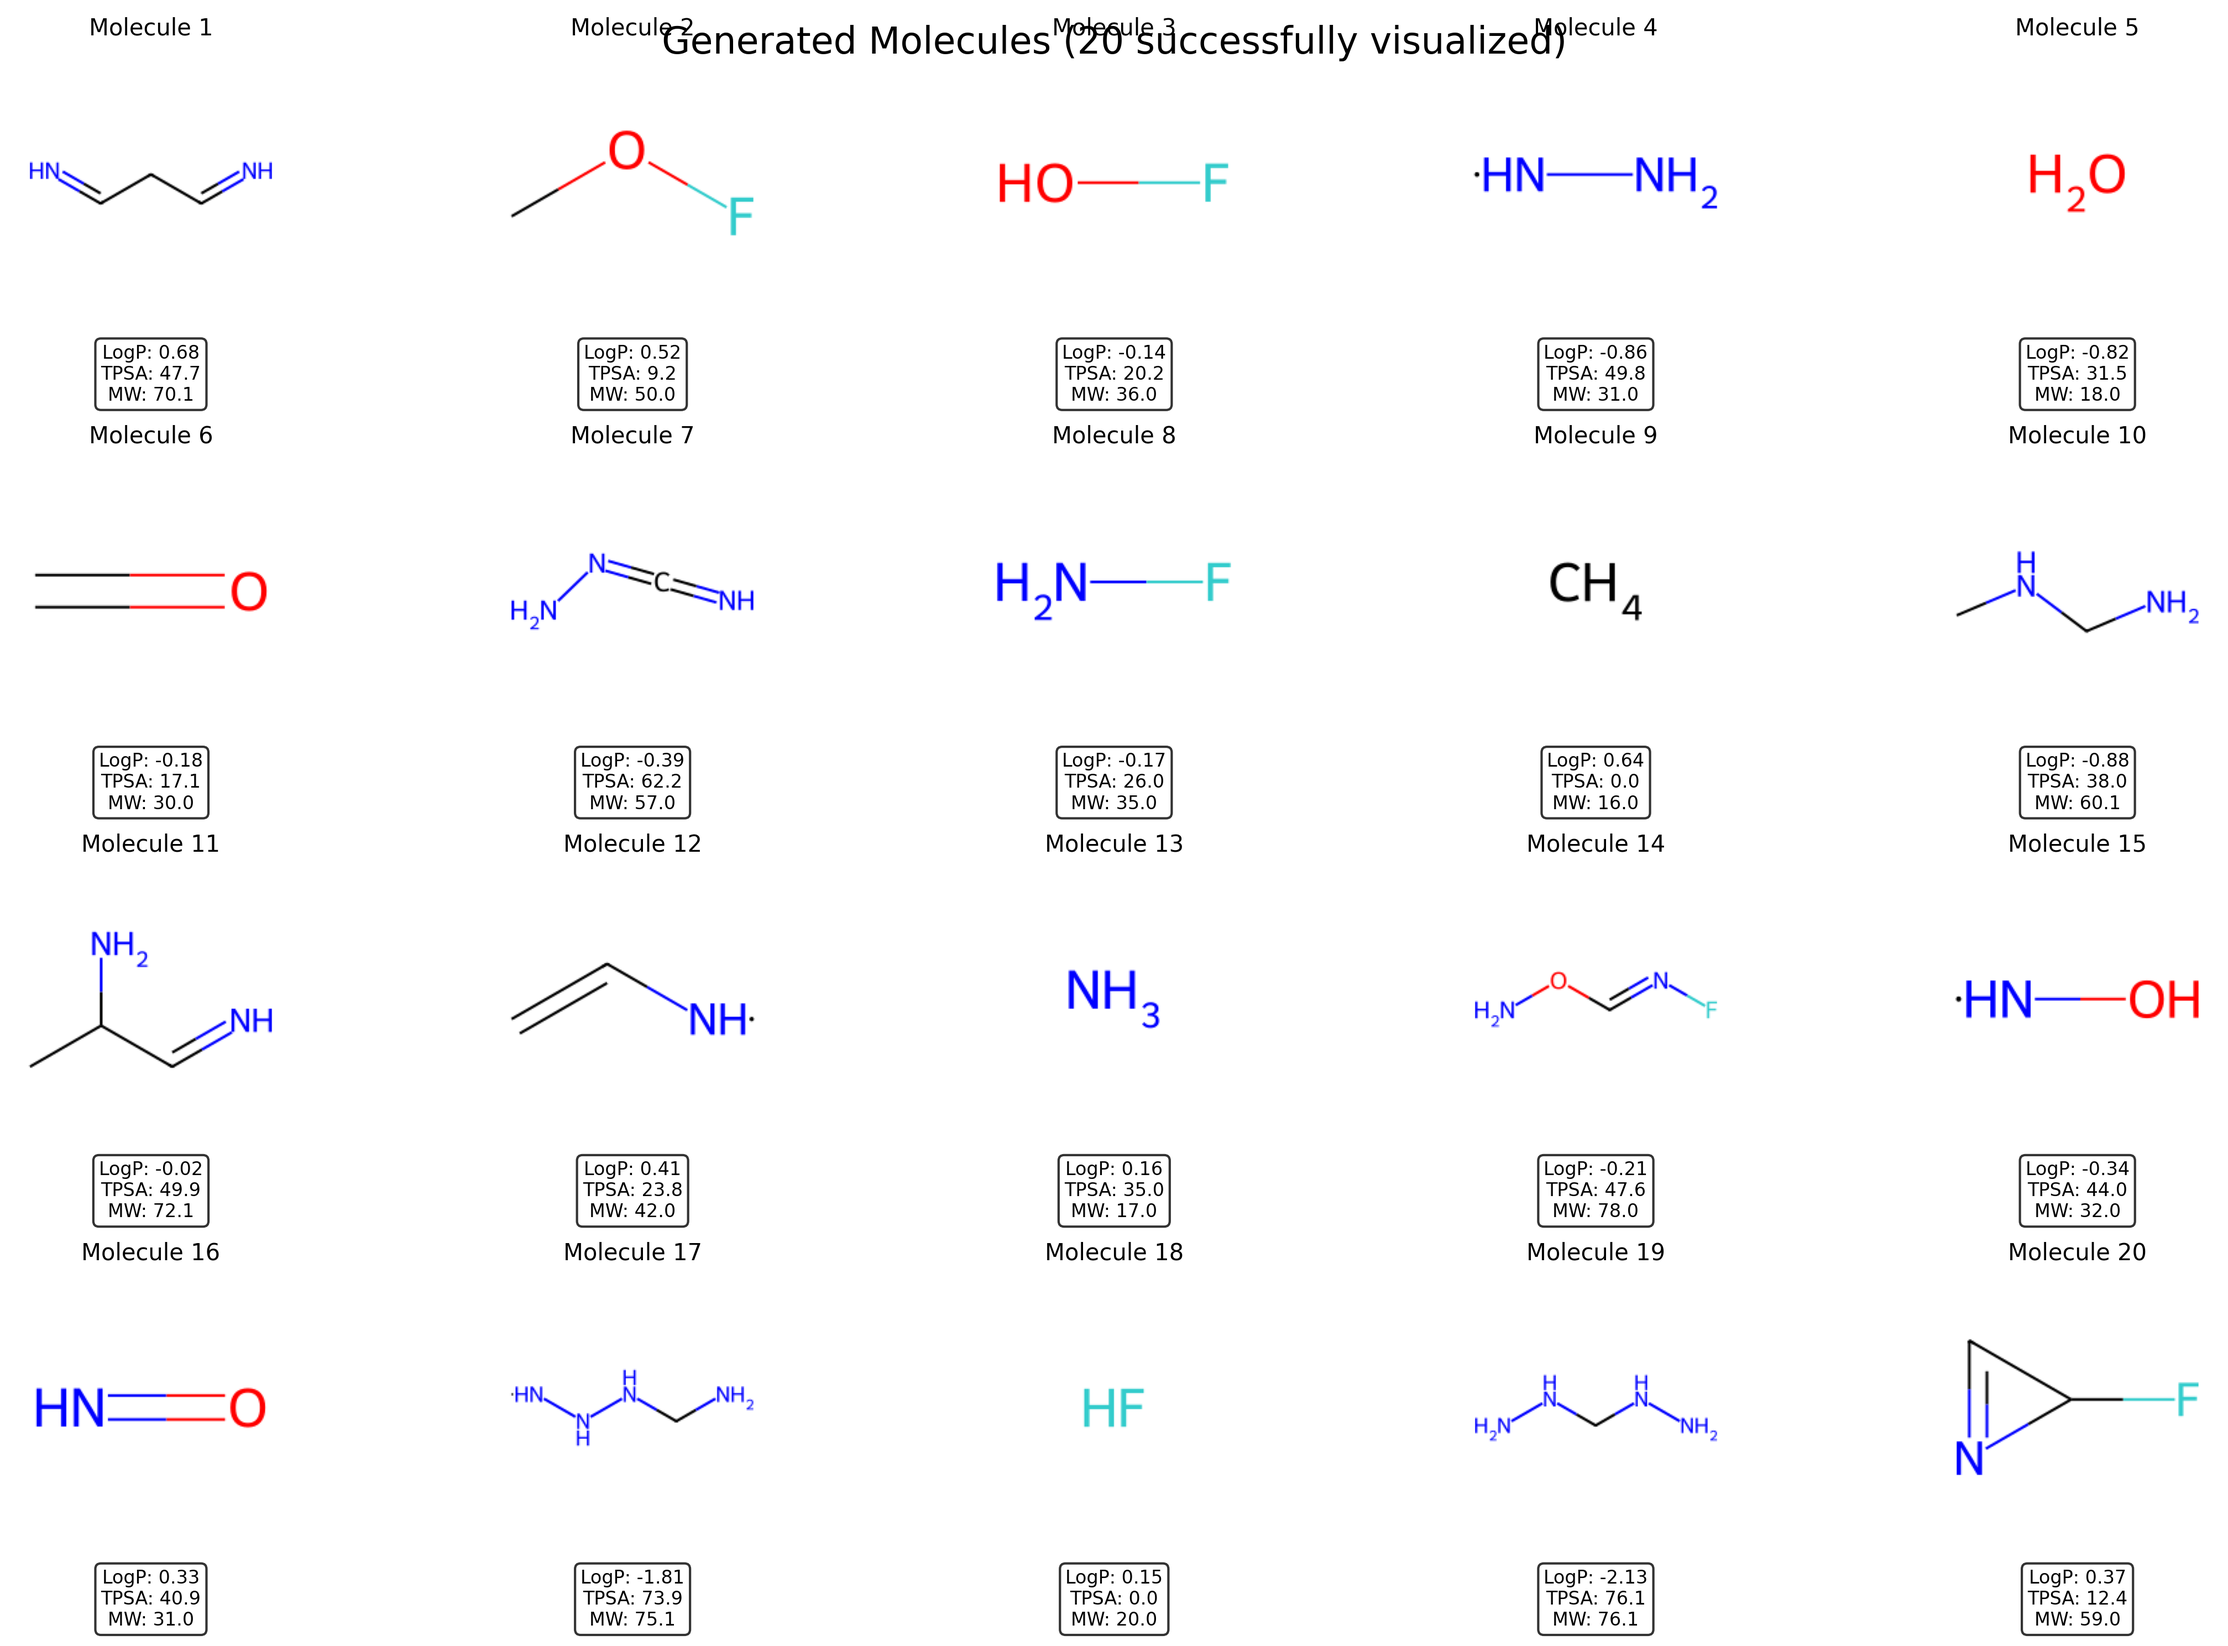
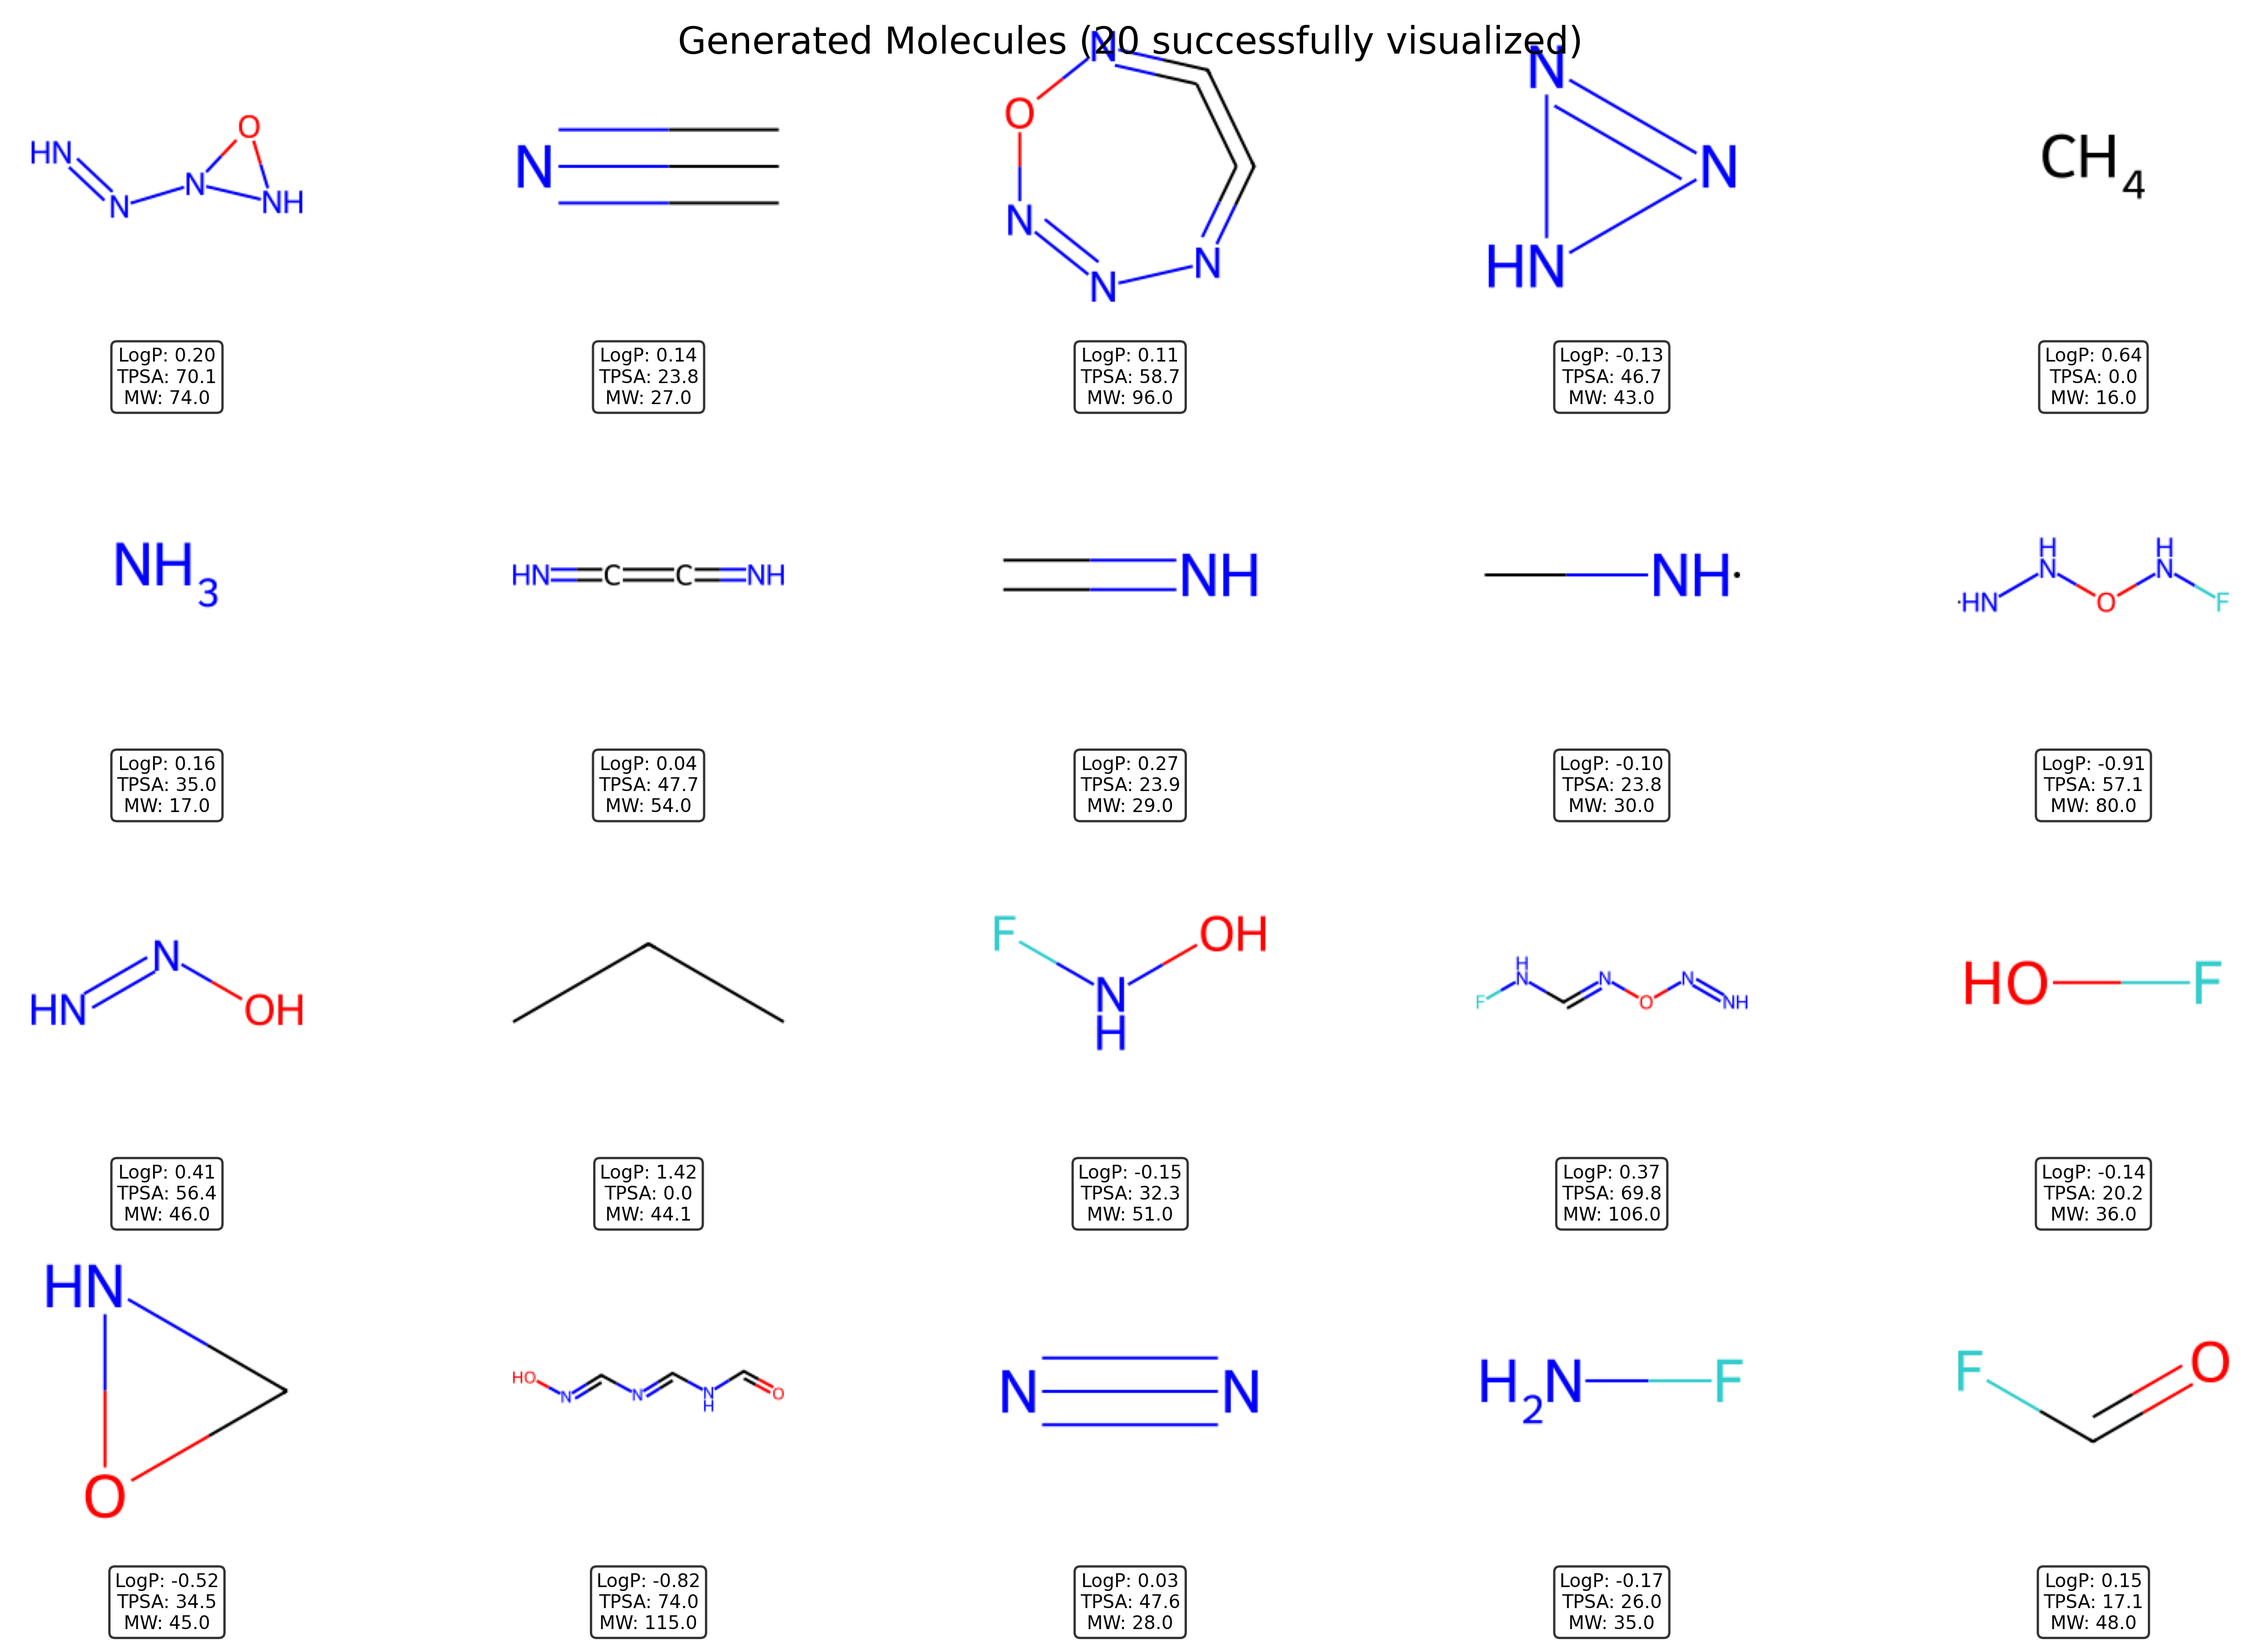
ok we just need o do similiarity penalty

diff --git a/inference.py b/inference.py
@@ -1,0 +1,149 @@
+#!/usr/bin/env python3
+"""
+Comprehensive molecule generation and analysis pipeline.
+Combines sampling, validation, and visualization into one script.
+"""
+
+import argparse
+import os
+import sys
+import json
+import pandas as pd
+import matplotlib
+matplotlib.use('Agg')  # Use non-interactive backend
+import matplotlib.pyplot as plt
+from rdkit import Chem
+from rdkit.Chem import Draw
+import numpy as np
+from PIL import Image
+import io
+
+# Add project root to path
+sys.path.append(os.path.dirname(os.path.abspath(__file__)))
+
+from models.vae import SelfiesVAE
+from utils.sample import sample_from_vae, tokens_to_selfies, load_best_model
+from utils.validate import validate_selfies, batch_validate_selfies
+from utils.visualize import create_molecule_grid
+
+def load_data():
+    """Load vocabulary and metadata"""
+    with open('mlx_data/qm9_cns_selfies.json', 'r') as f:
+        meta = json.load(f)
+    return meta['token_to_idx'], meta['idx_to_token'], meta['vocab_size']
+
+def generate_molecules(model, num_samples, temperature=1.0, top_k=10):
+    """Generate molecules using the VAE"""
+    print(f"🎲 Generating {num_samples} molecules with temperature {temperature} and top_k {top_k}...")
+    
+    # Generate sequences
+    samples = sample_from_vae(model, num_samples, temperature, top_k)
+    
+    # Convert to SELFIES
+    token_to_idx, idx_to_token, vocab_size = load_data()
+    selfies_list = tokens_to_selfies(samples)
+    
+    # Filter out empty sequences
+    selfies_list = [s for s in selfies_list if s]
+    
+    print(f"✅ Generated {len(selfies_list)} non-empty SELFIES sequences")
+    return selfies_list
+
+def validate_molecules(selfies_list):
+    """Validate generated molecules and convert to SMILES"""
+    print(f"🔍 Validating {len(selfies_list)} molecules...")
+    
+    # Validate and convert to SMILES
+    results = batch_validate_selfies(selfies_list)
+    
+    if not results:
+        print("❌ No valid molecules generated!")
+        return None
+    
+    # Create DataFrame
+    df = pd.DataFrame(results)
+    
+    # Calculate statistics
+    total_generated = len(selfies_list)
+    total_valid = len(results)
+    unique_valid = len(df['smiles'].unique())
+    
+    print(f"📊 Validation Results:")
+    print(f"   Total generated: {total_generated}")
+    print(f"   Valid molecules: {total_valid}")
+    print(f"   Unique valid: {unique_valid}")
+    print(f"   Success rate: {unique_valid/total_valid:.1%}")
+    
+    return df
+
+def visualize_molecules(df, max_molecules=20):
+    """Create visualizations of the generated molecules"""
+    print(f"🎨 Creating visualizations for {len(df)} molecules...")
+    
+    # Create molecule grid
+    fig = create_molecule_grid(df, max_molecules=max_molecules)
+    if fig is not None:
+        fig.savefig('output/molecule_grid.png', dpi=300, bbox_inches='tight')
+        print("💾 Saved molecule grid to output/molecule_grid.png")
+    else:
+        print("❌ Could not create molecule grid visualization")
+
+def save_results(df, output_file='output/generation_results.csv'):
+    """Save validation results to CSV"""
+    if df is not None:
+        df.to_csv(output_file, index=False)
+        print(f"💾 Saved results to {output_file}")
+
+def main():
+    parser = argparse.ArgumentParser(description='Generate and analyze molecules with VAE')
+    parser.add_argument('--num_samples', type=int, default=50, 
+                       help='Number of molecules to generate')
+    parser.add_argument('--temperature', type=float, default=1.0,
+                       help='Sampling temperature')
+    parser.add_argument('--top_k', type=int, default=10,
+                       help='Top-k sampling threshold')
+    parser.add_argument('--max_visualize', type=int, default=20,
+                       help='Maximum number of molecules to visualize')
+    parser.add_argument('--output_file', type=str, default='output/generation_results.csv',
+                       help='Output CSV file for results')
+    parser.add_argument('--checkpoint', type=str, default='checkpoints',
+                       help='Model checkpoint directory to load from')
+    
+    args = parser.parse_args()
+    
+    # Ensure output directory exists
+    os.makedirs('output', exist_ok=True)
+    
+    print("🚀 Starting molecule generation and analysis pipeline...")
+    print("="*60)
+    
+    # Load model
+    print("📥 Loading model...")
+    model = load_best_model(args.checkpoint)
+    print(f"✅ Loaded model from {args.checkpoint}")
+    
+    # Generate molecules
+    selfies_list = generate_molecules(model, args.num_samples, args.temperature, args.top_k)
+    
+    if not selfies_list:
+        print("❌ No molecules generated. Exiting.")
+        return
+    
+    # Validate molecules
+    df = validate_molecules(selfies_list)
+    
+    if df is None:
+        print("❌ No valid molecules found. Exiting.")
+        return
+    
+    # Save results
+    save_results(df, args.output_file)
+    
+    # Visualize molecules
+    visualize_molecules(df, args.max_visualize)
+    
+    print("="*60)
+    print("🎉 Pipeline completed successfully!")
+
+if __name__ == "__main__":
+    main()

diff --git a/utils/visualize.py b/utils/visualize.py
@@ -69,13 +69,13 @@ def create_molecule_grid(df, max_molecules=20, figsize=(15, 10)):
                    ha='center', va='top', fontsize=8,
                    bbox=dict(boxstyle='round', facecolor='white', alpha=0.8))
             
-            ax.set_title(f"Molecule {i+1}", fontsize=10)
+            ax.set_title("", fontsize=10)
             
         except Exception as e:
-            print(f"Error visualizing molecule {i+1}: {str(e)[:50]}...")
+            print(f"Error visualizing molecule: {str(e)[:50]}...")
             ax.text(0.5, 0.5, f"Error:\n{str(e)[:20]}", ha='center', va='center',
                    transform=ax.transAxes, fontsize=10, color='red')
-            ax.set_title(f"Molecule {i+1}", fontsize=10)
+            ax.set_title("", fontsize=10)
         
         # Remove axes
         ax.set_xticks([])
